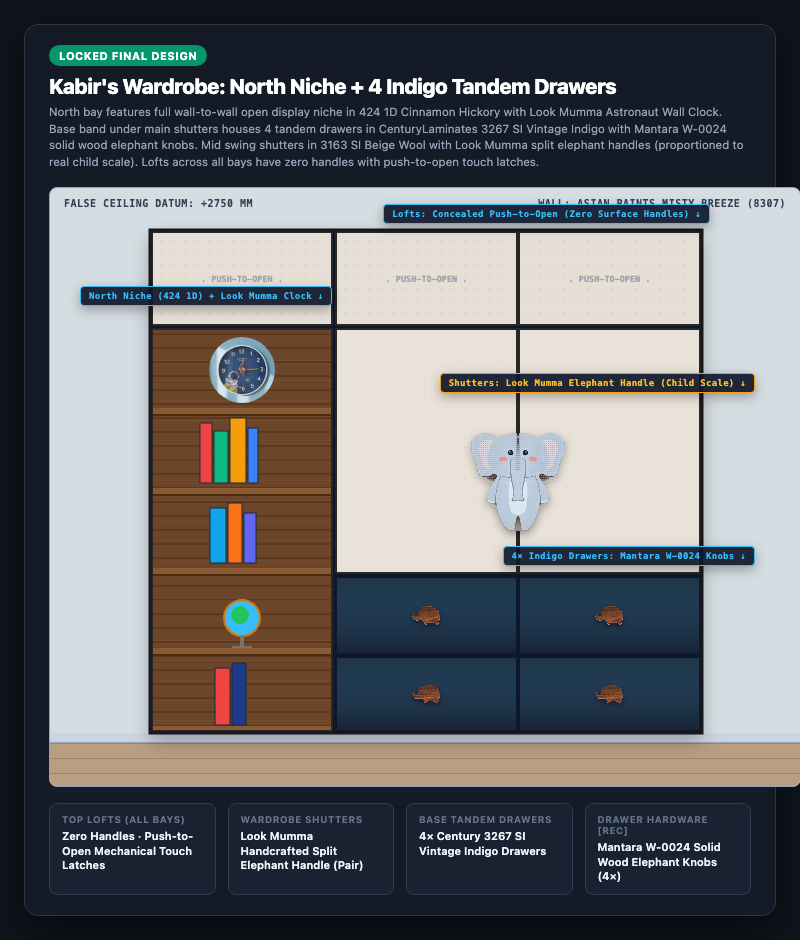
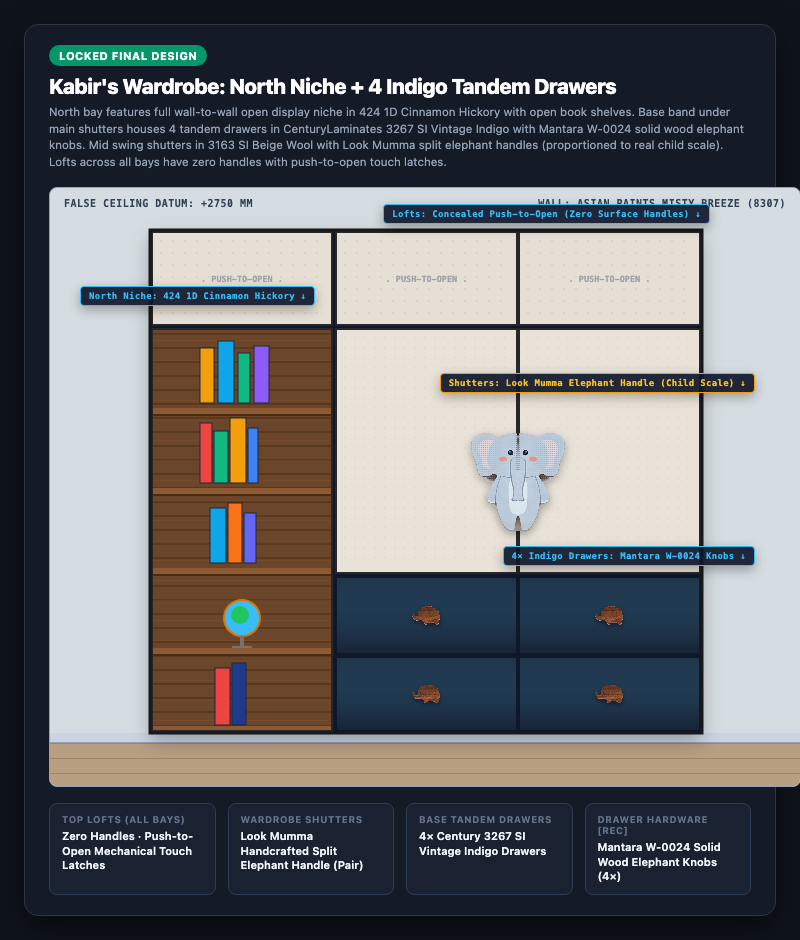
sync: update Project U notes (2026-11-06 23:19:10)

Changed region(s): [[0.0625, 0.0926, 0.9375, 0.1851], [0.25, 0.3085, 0.4375, 0.4319]]

diff --git a/content/rooms/kabir-room.md b/content/rooms/kabir-room.md
@@ -22,7 +22,7 @@ Dedicated study, reading, and creative play space for Kabir (age 6, Grade 1 at K
 
 | Need                                              | Tier 1: High-Quality VFM                                                                                                                                                                                                                                                                                                                                                                                                                                                                                                                                                                                                                                                                                             | Tier 2: High-Quality Unconstrained                                                                                                                                                                                                                                                                                                                                                        | Top Failure Mode & Reddit Insight                                                                                                                                                                                                                |
 | :------------------------------------------------ | :------------------------------------------------------------------------------------------------------------------------------------------------------------------------------------------------------------------------------------------------------------------------------------------------------------------------------------------------------------------------------------------------------------------------------------------------------------------------------------------------------------------------------------------------------------------------------------------------------------------------------------------------------------------------------------------------------------------- | :---------------------------------------------------------------------------------------------------------------------------------------------------------------------------------------------------------------------------------------------------------------------------------------------------------------------------------------------------------------------------------------- | :----------------------------------------------------------------------------------------------------------------------------------------------------------------------------------------------------------------------------------------------- |
-| **KBR Wardrobe (Homz Locked)**                    | **[Recommended]** **Locked Design: North Niche + Indigo Tandem Drawers:** Entire wardrobe and lofts in CenturyLaminates `3163 SI Beige Wool`; leftmost (North) bay features full wall-to-wall open `424 1D Cinnamon Hickory` display niche beside study desk (bottom drawers removed) housing the Look Mumma Astronaut Wall Clock; base band under wardrobe shutters houses 4 tandem drawers in CenturyLaminates `3267 SI Vintage Indigo` (scuff protection) with Mantara W-0024 solid beech elephant knobs; upper mid swing shutters fitted with Look Mumma solid acacia elephant handles; top lofts across all bays strictly omit surface handles and operate via concealed mechanical push-to-open touch latches. | [Greenlam AFX Neutral + Solid Woodgrain Niche + FENIX](https://www.google.com/search?q=Greenlam+AFX+Neutral+%2B+Oak+Niche+%2B+FENIX) (Century Club Prime, Blum BLUMOTION soft-close channels, ~₹1.85L) / [Merino Luvih Super-Matt + Blum LEGRABOX](https://www.google.com/search?q=Merino+Luvih+Super-Matt+%2B+Blum+LEGRABOX) (Finger-safe soft-close dampers, ~₹1.75L)                   | Cartoon laminates date poorly by age 9; grounding the base in scuff-resistant `3267 SI` Vintage Indigo protects against kicks while `3163 SI` Beige Wool maintains whole-house Japandi continuity and single-brand Century procurement.          |
+| **KBR Wardrobe (Homz Locked)**                    | **[Recommended]** **Locked Design: North Niche + Indigo Tandem Drawers:** Entire wardrobe and lofts in CenturyLaminates `3163 SI Beige Wool`; leftmost (North) bay features full wall-to-wall open `424 1D Cinnamon Hickory` display niche beside study desk (bottom drawers removed) housing open book shelves; base band under wardrobe shutters houses 4 tandem drawers in CenturyLaminates `3267 SI Vintage Indigo` (scuff protection) with Mantara W-0024 solid beech elephant knobs; upper mid swing shutters fitted with Look Mumma solid acacia elephant handles; top lofts across all bays strictly omit surface handles and operate via concealed mechanical push-to-open touch latches. | [Greenlam AFX Neutral + Solid Woodgrain Niche + FENIX](https://www.google.com/search?q=Greenlam+AFX+Neutral+%2B+Oak+Niche+%2B+FENIX) (Century Club Prime, Blum BLUMOTION soft-close channels, ~₹1.85L) / [Merino Luvih Super-Matt + Blum LEGRABOX](https://www.google.com/search?q=Merino+Luvih+Super-Matt+%2B+Blum+LEGRABOX) (Finger-safe soft-close dampers, ~₹1.75L)                   | Cartoon laminates date poorly by age 9; grounding the base in scuff-resistant `3267 SI` Vintage Indigo protects against kicks while `3163 SI` Beige Wool maintains whole-house Japandi continuity and single-brand Century procurement.          |
 | **Child Daybed / Sleeper**                        | [Orange Tree / Spin Solid Hardwood Daybed with Trundle](https://www.google.com/search?q=Orange+Tree+Solid+Wood+Daybed+with+Trundle) (Kiln-dried solid wood, `36×75 in` full single mattress + trundle, ~₹48,000) / [IKEA HEMNES Day-Bed Frame with 3 Drawers](https://www.ikea.com/in/en/p/hemnes-day-bed-frame-with-3-drawers-white-70349327/) (₹36,990)                                                                                                                                                                                                                                                                                                                                                            | **[Recommended]** [Alankaram Junior Solid Teak Daybed with Trundle](https://www.google.com/search?q=Alankaram+Junior+Teak+Daybed+with+Trundle) (Solid seasoned teak, `36×75 in` full single mattress sizing for age 6–12 sleep transition, rounded child-safe bullnose edges, pull-out trundle, ₹72,000)                                                                                  | Reject `Boingg!` (uses 18mm MDF/HDF and pine, not teak) and `IKEA BRIMNES` (particleboard slats snap under child jumping). Full `36×75 in` single mattress sizing allows an adult to lie comfortably beside Kabir during his age 7–9 transition. |
 | **Kids Reading Pouffe / Sleeper**                 | **[Recommended]** [IKEA KOMPISHÄNG Mattress/Pouffe (80×200 cm)](https://www.ikea.com/in/en/p/kompishaeng-mattress-pouffe-beige-red-60628767/) (13 cm pocket springs, tri-fold pouffe 80×68 cm, ₹12,990) / [IKEA SLÄKT Folding Mattress](https://www.ikea.com/in/en/p/slaekt-folding-mattress-grey-90362964/) (Pouf/floor bed, washable cover, 62×193 cm, ₹8,990)                                                                                                                                                                                                                                                                                                                                                     | [BoConcept Xtra Footstool with Sleeping Function](https://www.boconcept.com/en-in/p/xtra/603030-603011.html) (70×70 cm Danish ottoman, concealed steel folding frame, 70×200 cm raised bed, ₹85,950) / [Karup Design Hippo Chair-Futon](https://www.google.com/search?q=Karup+Design+Hippo+Chair-Futon) (Danish Japandi design, folds from low armchair to 90×200 cm floor bed, ~₹48,000) | KOMPISHÄNG sleeps on floor at 1/7th price; BoConcept lifts sleeper 42cm off tile on steel frame in bespoke Danish upholstery, but requires adult to unfold (24 kg).                                                                              |
 | **Ergonomic Study Desk**                          | **[Recommended]** [IKEA BERGLÄRKA Tiltable Desk](https://www.google.com/search?q=IKEA+BERGL%C3%84RKA+Tiltable+Desk) (Manual crank 52–75cm, tiltable top, EN 17191 child-safe, ₹14,990) / [IKEA PIPLÄRKA Adjustable Desk](https://www.ikea.com/in/en/p/piplaerka-desk-tiltable-white-50530752/) (50–74 cm height in 5 steps, compact 80×63 cm, ₹7,990)                                                                                                                                                                                                                                                                                                                                                                | [Moll Champion Ergonomic Children Desk](https://moll-funktion.com/en/product/champion/) (German precision gas lift, split tilt desk top, ~₹85,000) / [Moll Winner Compact Children Desk](https://moll-funktion.com/en/product/winner/) (10-position manual tilt, adjustable 53–82 cm, cable duct, ~₹68,000)                                                                               | Motorized sit-stand desks have high minimum heights ($\ge 62\text{ cm}$) and pinch hazards; manual child-certified desks drop to 52 cm.                                                                                                          |
@@ -30,7 +30,6 @@ Dedicated study, reading, and creative play space for Kabir (age 6, Grade 1 at K
 | **South Wall 3D World Map**                       | **[Recommended]** [Woodsify 3D Wooden World Map Multicolor (Non-LED, Size L)](https://www.woodsify.com/products/3d-wooden-world-map-multicolour?variant=42093391315150) (150×90 cm, birch plywood, ₹9,540) / [WoodScape 3D Multilayer Birch Map](https://www.google.com/search?q=WoodScape+3D+Multilayer+Birch+Map) (140×85 cm, natural wood stains, ₹8,990)                                                                                                                                                                                                                                                                                                                                                         | [Enjoy The Wood 3D Birch Map with Push Pins](https://enjoythewood.com/products/3d-wooden-world-map-multicolor) (~$249 / ₹21,000, non-toxic stains, flag pins) / [MiMi Innovations 3D Solid Hardwood Topographic World Map](https://www.google.com/search?q=MiMi+Innovations+3D+Hardwood+Topographic+World+Map) (Hand-stained oak/walnut relief, ~₹26,000)                                 | Direct adhesive tape ruins paint during removal; mount onto 6mm BWP ply backer board with French cleats. Detail in [[art-wall-decor]].                                                                                                           |
 | **Wardrobe Shutter Handles (Acacia Elephant)**    | **[Recommended]** [Look Mumma Hand-Carved Acacia Elephant Handles](https://www.amazon.in/Look-Mumma-Elephant-Premium-Cupboard/dp/B0FJFXNG7K/) (Natural waxed solid acacia wood, 96mm CC / 120×95mm, through-bolted with M4 machine screws into 18mm BWP ply, ₹1,450 / pair) / [Pinch of Pretty Wood Pulls](https://pinchofpretty.com) (~₹2,999)                                                                                                                                                                                                                                                                                                                                                                      | [Homz Bespoke Hand-Carved Teak Elephant Pulls](https://www.google.com/search?q=Hand-Carved+Teak+Elephant+Bar+Pulls) (Crafted from CP teak offcuts, ~₹1,600 labor)                                                                                                                                                                                                                         | Soft pine/MDF decorative handles split under child pulling force; solid acacia handles through-bolted with M4 machine bolts into 18mm BWP ply will never pull out.                                                                               |
 | **Wardrobe Tandem Drawer Knobs (Beech Elephant)** | **[Recommended]** [Mantara W-0024 Elephant Knob](https://www.mantara.in/products/mantara-w-0024-elephant) (Solid natural beech wood, 50mm single-point knob with brass threaded insert, ₹649 ea, 4 units)                                                                                                                                                                                                                                                                                                                                                                                                                                                                                                            | [Mantara Safari Animal Knobs Collection](https://www.mantara.in) (Solid turned wood, brass insert, ~₹750 ea) / [Häfele Zinc Animal Knobs](https://www.hafeleindia.com) (~₹450 ea)                                                                                                                                                                                                         | Drawers endure higher pull frequencies than tall shutters; solid beech wood with factory brass inserts prevents thread stripping under rapid yank loads.                                                                                         |
-| **Study Wall Clock (Analog Learning)**            | **[Recommended]** [Look Mumma Whimsical Astronaut Outer Space Wall Clock](https://lookmumma.com/products/whimsical-astronaut-outer-space-wall-clock) (10" silent sweep quartz, bold Arabic numerals, cosmic outer space motif, ₹899) / [IKEA TJINGA Wall Clock](https://www.ikea.com/in/en/p/tjinga-wall-clock-white-30541484/) (Silent quartz, ₹199)                                                                                                                                                                                                                                                                                                                                                                | [Seiko Kids Learning Wall Clock](https://www.google.com/search?q=Seiko+Kids+Learning+Wall+Clock) (Silent sweep, color-coded hour/minute hands, ₹3,200) / [Lemnos Fun Pun Education Clock](https://www.google.com/search?q=Lemnos+Fun+Pun+Clock) (Japanese pedagogical design, ~$110 / ₹9,200)                                                                                             | Stepping-quartz mechanisms disturb child sleep in quiet bedrooms; mandate continuous silent-sweep movements. High-contrast Arabic numerals foster early analog time-reading literacy.                                                            |
 
 ---
 
@@ -41,7 +40,7 @@ Configured layout: SE entrance door, NW washroom door, NE wardrobe, North wall d
 * **Sleep Alignment (South Wall, Head to East):** Daybed with pull-out guest trundle lined along South wall, buffered from the SE entrance door swing by a 30 cm privacy wing. Kabir sleeps with head strictly to the East (classical student bio-rhythm alignment) and feet pointing West.
 * **Study Alignment (North Wall, Right of Window):** IKEA BERGLÄRKA desk lined against the solid North wall to the right of the window. Kabir sits facing North. Glare-free North daylight enters over his left shoulder without hand shadows. School worksheets and printing are managed centrally from [[study-guest-room]] to keep Kabir's desk and wardrobe niche free of cords and ink.
 * **Reading Nook (North-West, Left of Window):** Low-profile IKEA KOMPISHÄNG tri-fold pouffe/mattress positioned in the NW zone by the glazing. Natural reading light; preserves clear 900 mm walk to NW washroom door.
-* **Wardrobe (North-East, Along East Wall):** Homz wardrobe running length across East wall (shutters open West) in CenturyLaminates `3163 SI Beige Wool`. Leftmost (North) bay features a wall-to-wall open `424 1D Cinnamon Hickory` display niche beside Kabir's study desk housing the Look Mumma Astronaut Wall Clock and books, free of bottom drawers. Mid swing shutters fitted with Look Mumma solid acacia elephant handles; base band under closed wardrobe shutters fitted with 4 tandem drawers in CenturyLaminates `3267 SI Vintage Indigo` with Mantara W-0024 solid beech elephant knobs. Top lofts (×3) strictly prohibit surface handles, using concealed mechanical push-to-open touch latches.
+* **Wardrobe (North-East, Along East Wall):** Homz wardrobe running length across East wall (shutters open West) in CenturyLaminates `3163 SI Beige Wool`. Leftmost (North) bay features a wall-to-wall open `424 1D Cinnamon Hickory` display niche beside Kabir's study desk housing open book shelves, free of bottom drawers. Mid swing shutters fitted with Look Mumma solid acacia elephant handles; base band under closed wardrobe shutters fitted with 4 tandem drawers in CenturyLaminates `3267 SI Vintage Indigo` with Mantara W-0024 solid beech elephant knobs. Top lofts (×3) strictly prohibit surface handles, using concealed mechanical push-to-open touch latches.
 
 ![Kabir Wardrobe Locked North Niche](assets/decor/kabir-wardrobe-final-north-niche.png)
 * **Activity Zone & World Map (South-West / West Wall):** Clear floor area in South-West for play and movement; Woodsify 3D Birch World Map mounted on solid West wall via French cleats on 6mm BWP ply backer board.

diff --git a/content/art-wall-decor.md b/content/art-wall-decor.md
@@ -32,7 +32,6 @@ Master specification for curated art, GI-certified authentic Indian craft, museu
 | Need | Image / Zone | Tier 1: High-Quality VFM | Tier 2: High-Quality Unconstrained | Top Failure Mode & Reddit Insight |
 | :--- | :--- | :--- | :--- | :--- |
 | **South Wall 3D World Map** | <img src="assets/decor/woodsify-world-map.jpg" alt="Woodsify 3D World Map" width="100"> | **[Recommended]** [Woodsify 3D Wooden World Map Multicolor (Non-LED, Size L)](https://www.woodsify.com/products/3d-wooden-world-map-multicolour?variant=42093391315150) (150×90 cm, birch plywood, ₹9,540) / [WoodScape 3D Multilayer Birch Map](https://www.google.com/search?q=WoodScape+3D+Multilayer+Birch+Map) (140×85 cm, natural wood stains, ₹8,990) | [Enjoy The Wood 3D Birch Map with Push Pins](https://enjoythewood.com/products/3d-wooden-world-map-multicolor) (~$249 / ₹21,000, non-toxic stains, flag pins) / [MiMi Innovations 3D Solid Hardwood Topographic World Map](https://www.google.com/search?q=MiMi+Innovations+3D+Hardwood+Topographic+World+Map) (Hand-stained oak/walnut relief, ~₹26,000) / [CityWood Handcrafted Multi-Layer Architectural Map](https://www.google.com/search?q=CityWood+Multi-Layer+Architectural+Map) (Laser-cut birch relief, ~₹32,000) | Double-sided 3M foam tape rips acrylic emulsion and gypsum paper off the wall during removal; glue map pieces onto a 6mm BWP ply backer board hung via French cleats. |
-| **Kabir Space Clock (Analog Learning)** | <img src="assets/decor/kabir-wardrobe-final-north-niche.png" alt="Kabir Space Clock" width="100"> | **[Recommended]** [Look Mumma Whimsical Astronaut Outer Space Wall Clock](https://lookmumma.com/products/whimsical-astronaut-outer-space-wall-clock) (10" silent sweep quartz movement, bold Arabic numerals, cosmic astronaut motif, ₹899) / [IKEA TJINGA Analog Wall Clock](https://www.ikea.com/in/en/p/tjinga-wall-clock-white-30541484/) (Silent quartz, ₹199) | [Seiko Kids Learning Wall Clock](https://www.google.com/search?q=Seiko+Kids+Learning+Wall+Clock) (Silent sweep, color-differentiated hour/minute hands, ₹3,200) / [Lemnos Fun Pun Analog Education Clock](https://www.google.com/search?q=Lemnos+Fun+Pun+Clock) (Japanese minimalist pedagogical clock by Yoko Dobashi, ~$110 / ₹9,200) | Ticking quartz mechanisms disturb child sleep in quiet bedrooms; mandate continuous silent-sweep movements. Mount in North wardrobe display niche or above desk at 1,400 mm AFF for clear reading angle. |
 | **Study Task & Spelling Board** | <img src="assets/decor/rustle-menu-board.jpg" alt="Rustle Menu Board" width="100"> | **[Recommended]** [Rustle Stylish Wooden Wall Menu Board (Large)](https://www.rustle.in/product-page/stylish-wooden-menu-holder?selectionIds=3) (Teak rails + birch ply tiles, 8-strip, ₹8,500) / [IKEA SVENSÅS Pegboard & Magnetic Memo Combinations](https://www.google.com/search?q=IKEA+SVENS%C3%85S+Pegboard+%26+Magnetic+Memo+Combinations) (Powder-coated steel + cork, ₹2,990) | [George & Willy Wooden Letter Board](https://www.google.com/search?q=George+%26+Willy+Wooden+Letter+Board) (Architectural American ash rails, laser-cut timber tiles, ~$180 / ₹15,500) / [Three by Three Seattle / Chatboard Danish Magnetic Glass & Oak Board](https://www.google.com/search?q=Three+by+Three+Seattle) (Tempered non-ghosting magnetic glass, ~₹22,000) / [Spin Modular Perforated Steel & Solid Ash Wall Organizer](https://www.google.com/search?q=Spin+Perforated+Steel+%26+Ash+Wall+Organizer) (~₹12,500) | Cheap felt letter boards sag and shed fibers within 6 months; solid teak channel rails allow smooth letter sliding and zero dust trapping. |
 | **Low-Sensory Bedtime Wall Art** | Master Bedroom | **[Recommended]** [Calcutta Art Gallery / Artzolo Framed Minimalist Linen & Botanical Serigraphs (Pair)](https://www.google.com/search?q=Calcutta+Art+Gallery) (Solid teak float frame, non-reflective matte acrylic, ₹12,500) / [Freedom Tree Tactile Handwoven Textile Wall Hanging](https://www.google.com/search?q=Freedom+Tree+Tactile+Handwoven+Textile+Wall+Hanging) (Acoustic warmth, zero glass glare, ₹9,800) | [Jaipur Rugs / Obeetee Framed Hand-Knotted Silk & Wool Wall Tapestry](https://www.google.com/search?q=Jaipur+Rugs+%2F+Obeetee+Framed+Hand-Knotted+Silk+%26+Wool+Wall+Tapestry) (Zero reflection, absorbs bedroom slap-echo, ~₹38,000) / [Oorjaa Handcrafted Crushed Lokta Paper & Natural Fiber Sculptural Wall Relief](https://www.google.com/search?q=Oorjaa+Crushed+Lokta+Paper+%26+Natural+Fiber+Sculptural+Wall+Relief) (~₹32,000) / [Kaziban / Studioekko Custom Wabi-Sabi Mineral Plaster Triptych in Solid Teak Frame](https://www.google.com/search?q=Kaziban+%2F+Studioekko+Custom+Wabi-Sabi+Mineral+Plaster+Triptych+in+Solid+Teak+Frame) (~₹45,000) | Heavy glass frames mounted over headboards risk shattering onto sleepers if hooks fail; hang only lightweight textile or matte-acrylic frames above beds using dual keyhole cleats. |
 | **Sacred Gurmukhi Calligraphy & Brass Accents** | BR-03 Home Gurudwara | **[Recommended]** [Handcrafted Solid Brass Ik Onkar / Mool Mantar Wall Plaque (18")](https://www.google.com/search?q=Handcrafted+Solid+Brass+Ik+Onkar+%2F+Mool+Mantar+Wall+Plaque) (Brushed antique brass, non-glare matte lacquer, ₹4,500) / [Sikh Virasat Framed Golden Temple Heritage Archival Print](https://www.google.com/search?q=Sikh+Virasat+Framed+Golden+Temple+Heritage+Archival+Print) (Acid-free mount, solid wood frame, ₹6,800) | [Amritsar Taksali Hand-Embossed Copper/Brass Repoussé Mool Mantar Panel in Solid Burma Teak Frame](https://www.google.com/search?q=Amritsar+Taksali+Hand-Embossed+Copper) (Traditional gold-leaf/brass relief, ~₹24,000) / [Bespoke Hand-Lettered Gurmukhi Shabad Calligraphy on Archival Handmade Khadi Paper + Tru-Vue UV Glass](https://www.google.com/search?q=Bespoke+Hand-Lettered+Gurmukhi+Shabad+Calligraphy+on+Archival+Handmade+Khadi+Paper+%2B+Tru-Vue+UV+Glass) (~₹28,000) / [Alankaram CNC-Carved Solid Teak & Backlit Warm 2700K Brass Jali Ik Onkar Panel](https://www.google.com/search?q=Alankaram+CNC-Carved+Solid+Teak+%26+Backlit+Warm+2700K+Brass+Jali+Ik+Onkar+Panel) (~₹35,000) | Unlacquered brass plaques oxidize with dark fingerprints from handling; specify factory clear matte polyurethane lacquer and indirect 2700K wall-washing to prevent mirror glare. |

diff --git a/content/kitchen-laundry.md b/content/kitchen-laundry.md
@@ -57,6 +57,12 @@ The #1 cause of kitchen cabinet rot is adhesive-only undermount failure.
 - **Granite Treatment:** Light Indian granite must be dry-treated with 2 saturating coats of **Akemi Anti-Fleck Nano Sealer** prior to hob/sink installation. Re-seal every 12–18 months.
 - **Hob Cutout:** Cutout for Häfele domino pair (555–557 × 475–477 mm) must have radiused (curved) internal corners. Square 90° cuts initiate stress fractures under thermal cycles.
 
+### Countertop Underside Drip Groove (Water Break)
+- **Physics & Failure Mode:** Spilled water clings to polished stone undersides via surface tension, wicking back to cabinetry. In handle-less kitchens, water pools in G-profile channels, rotting shutter edge banding, swelling BWP ply joints, and rusting runners.
+- **Overhang Dimension:** Stone slab must project 35–50 mm (1.5–2 inches) beyond finished cabinet shutter faces. Overhangs under 30 mm drop water directly onto cabinet doors.
+- **Groove Specification:** Cut a 3–5 mm wide by 3–5 mm deep groove 10–15 mm inward from the slab underside front edge. The 90° undercut breaks surface tension, forcing runoff directly to the floor.
+- **Stone Thickness Safety:** On single-layer 18–20 mm granite, limit groove depth to 3–4 mm to prevent chipping the front lip. Double-molded edges safely accept full 5 mm depth.
+
 ### Drinking Water RO Engineering & Hygiene Protocol
 Microbial hygiene is the primary non-negotiable selection criterion for drinking water.
 - **Biofilm Disqualification:** Hydro-pneumatic under-sink pressure tanks store unchlorinated pure RO permeate against dark butyl rubber at 25–35°C. This develops bacterial biofilm within 6–12 months that cannot be mechanically cleaned. Disqualify all hydro-pneumatic rubber bladder tanks.
@@ -87,6 +93,7 @@ Microbial hygiene is the primary non-negotiable selection criterion for drinking
 
 ### Worktop & Domino Hob Fit-Out
 - [ ] **Slab Nano-Sealing:** Treat owner-sourced light granite with 2 saturating coats of **Akemi Anti-Fleck Nano Sealer** before cutting appliance openings.
+- [ ] **Underside Drip Groove (Water Break):** Instruct stone mason to grind a continuous 3–5 mm wide × 3–5 mm deep groove 10–15 mm from the front outer edge under kitchen and utility slabs. Confirm slab overhang projects $\ge 35\text{–}50\text{ mm}$ past cabinet shutter faces so drips bypass G-profile channels.
 - [ ] **Hob Cutout Strategy (Homz / Stone Mason):**
   - **Preferred (Granite Bridge):** Cut two independent rectangular openings ($265 \times 475\text{ mm}$ for Altius FS 230; $260 \times 490\text{ mm}$ for Nero 30) separated by a 50–70 mm continuous granite bridge.
   - **Alternative (Joining Rail):** If using single cutout with Häfele joining strip, execute a stepped cut ($475\text{ mm}$ depth left, $490\text{ mm}$ depth right) and seal seams with Dow Corning 736 high-temp silicone.

diff --git a/content/gotchas-and-tips.md b/content/gotchas-and-tips.md
@@ -98,6 +98,9 @@ A consolidated compilation of non-obvious engineering gotchas, resident communit
 * **Light Granite Capillary Staining & Iron Garnet Rusting [Score: 8.9/10]:**
   * *Failure Mode:* Light granites like Kashmir White or Colonial White contain internal iron garnet inclusions that oxidize into permanent orange rust blooms when exposed to moisture/acids, which no sealer can stop. Light granites also contain microscopic fissures that wick haldi, lemon, and tadka oil if unsealed.
   * *Mitigation:* Disqualify Kashmir White / Colonial White. Select dense **Ivory Fantasy Indian granite** (or quartz/sintered stone). Test stone yard slab sample with turmeric paste + hot oil for 15 minutes before purchase; apply 2 coats of food-safe fluorochemical penetrating sealer (**Akemi Anti-Fleck Nano**) prior to commissioning.
+* **Countertop Underside Drip Groove (Capillary Break) [Score: 9.3/10]:**
+  * *Failure Mode:* Surface tension pulls spilled liquids horizontally along the polished stone underside into base cabinetry. In handle-less kitchens, runoff pools in recessed G-profile channels, delaminates edge banding, swells plywood carcass edges, and rusts soft-close runners.
+  * *Mitigation:* Stone mason must grind a 3–5 mm wide by 3–5 mm deep continuous groove 10–15 mm behind the slab front edge on all kitchen and utility worktops. Slabs must project 35–50 mm beyond cabinet shutter faces. The 90° undercut breaks surface tension, dropping water directly to the floor.
 * **Dining Vanity Robot Vacuum Cantilever Sag & Water Plumbing [Score: 8.7/10]:**
   * *Failure Mode:* Pulling out a 25 kg loaded dock on a 550 mm cantilever slide strains wall anchors and tips floating vanities. Top lids cannot open within 650 mm niches.
   * *Mitigation:* Vanity must be floor-standing with a structural plinth or anchored via M10 bolts into RCC. Water feed: **Option A (Auto-Refill Kit):** Standard 1/2" cold domestic angle valve + 32mm drain with inline anti-scale cartridge. **Option B (Manual Clean Tank):** Weekly manual fill of 4.5L tank with kitchen RO water (₹0, scale-free). No cross-apartment RO line required.
